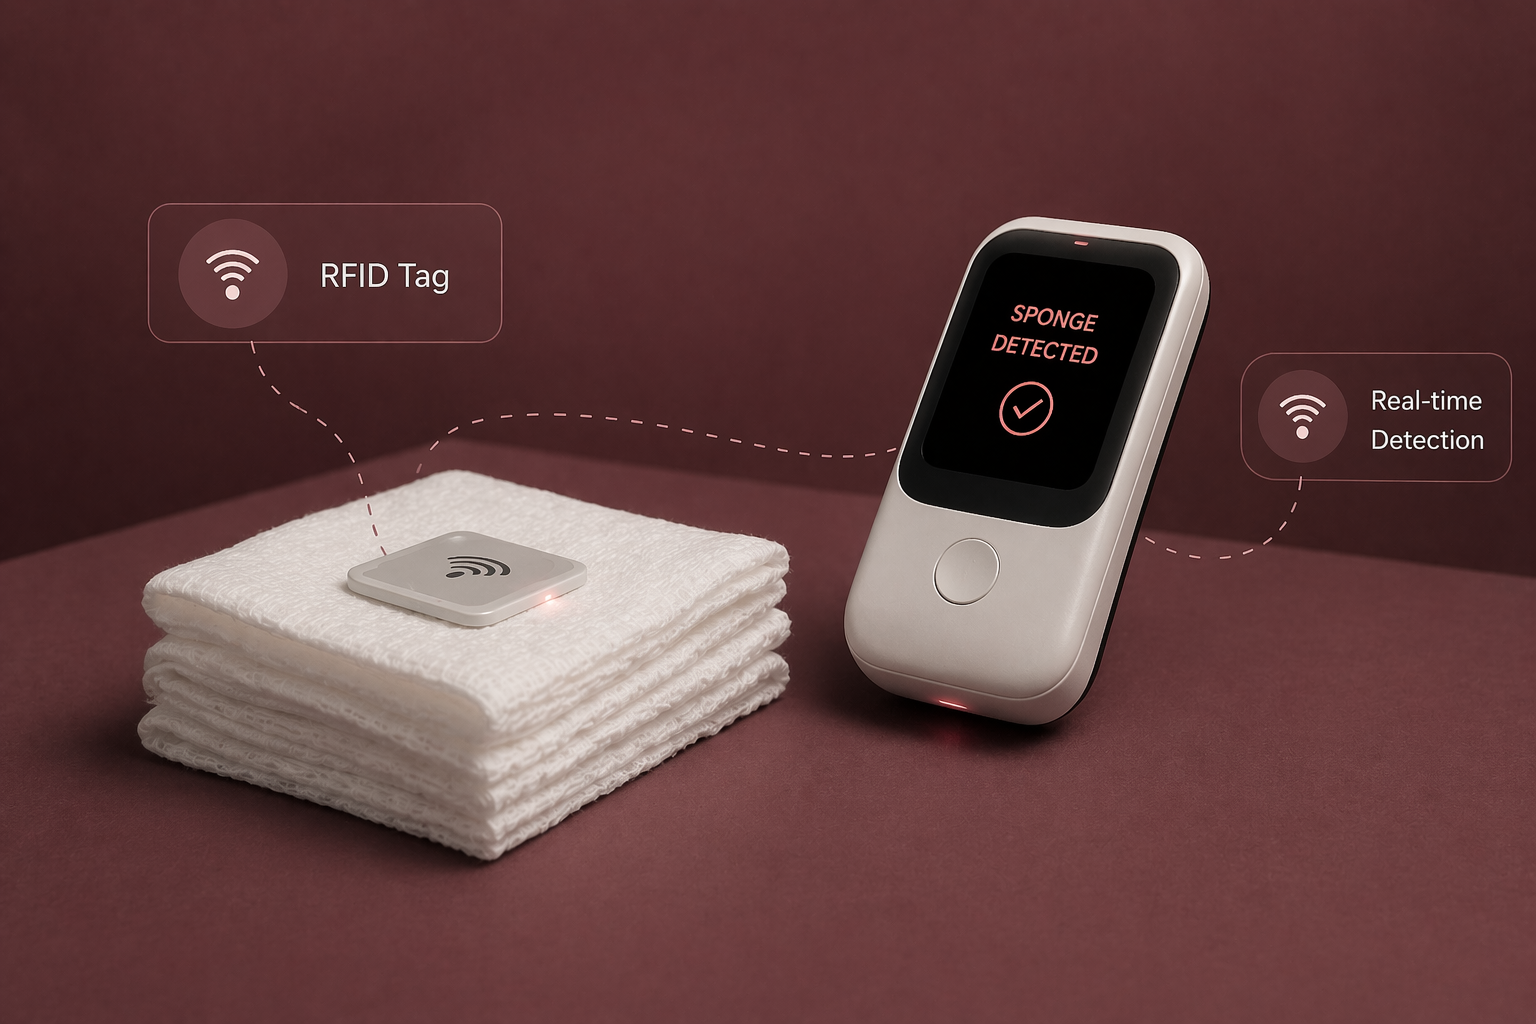
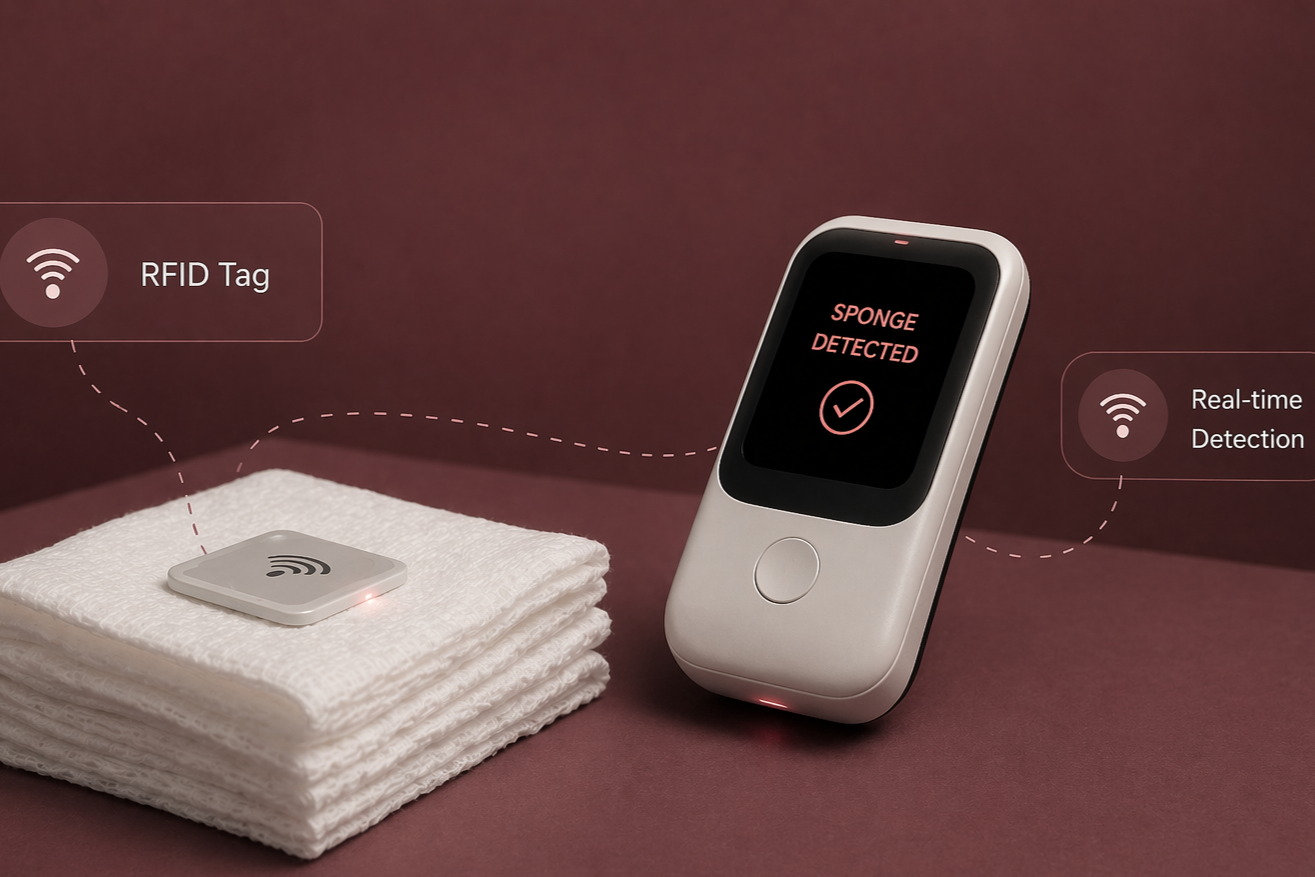
Updated till education section

diff --git a/src/components/Education.tsx b/src/components/Education.tsx
@@ -1,55 +1,131 @@
 'use client';
 
 import { motion } from 'framer-motion';
+import Image from 'next/image';
+import { Award, GraduationCap, BookOpen } from 'lucide-react';
 
-const education = [
-  {
-    degree: "M.Sc. Biomedical Engineering",
-    school: "Heidelberg University, Germany",
-    date: "Oct 2025 – Present"
-  },
-  {
-    degree: "B.Tech Biomedical Engineering",
-    school: "Lovely Professional University, India",
-    date: "Jun 2020 – Jun 2024",
-    detail: "Graduated with 91%"
-  }
-];
+export default function Education({ isActive = true }: { isActive?: boolean }) {
+  const itemVariants = {
+    hidden: { opacity: 0, y: 20, filter: 'blur(5px)' },
+    visible: { 
+      opacity: 1, 
+      y: 0, 
+      filter: 'blur(0px)',
+      transition: { duration: 0.8, ease: [0.22, 1, 0.36, 1] }
+    }
+  };
 
-export default function Education() {
   return (
-    <section className="section-wrapper bg-[var(--bg)]">
-      <div className="w-full max-w-[1100px] flex flex-col items-center gap-16 px-4">
-        {/* Row on Desktop */}
-        <div className="flex flex-col md:flex-row justify-center items-stretch gap-12 w-full">
-          {education.map((edu, i) => (
+    <section className="section-wrapper bg-[#1A0E10] h-screen overflow-hidden relative flex flex-col justify-center py-0">
+      
+      {/* Background Ambient Glow */}
+      <div className="absolute inset-0 pointer-events-none z-0">
+        <div className="absolute top-1/2 left-1/2 -translate-x-1/2 -translate-y-1/2 w-[700px] h-[700px] bg-[#7A4954]/5 blur-[180px]" />
+      </div>
+
+      <div className="about-container relative z-10 flex flex-col items-center">
+        
+        {/* Section Label - Compacted margin */}
+        <div className="w-full text-left mb-6 lg:mb-8">
+          <div className="about-side-label !mb-0">
             <motion.div
-              key={i}
-              initial={{ opacity: 0, y: 30 }}
-              whileInView={{ opacity: 1, y: 0 }}
-              transition={{ duration: 0.8, delay: i * 0.2 }}
-              viewport={{ once: true }}
-              className="card flex-1 flex flex-col items-center justify-center text-center p-12 min-w-[300px]"
+              initial={{ opacity: 0, x: -10 }}
+              animate={isActive ? { opacity: 0.6, x: 0 } : { opacity: 0, x: -10 }}
+              transition={{ duration: 0.8 }}
+              className="tracking-[0.4em]"
             >
-              <h3 className="text-2xl md:text-3xl font-display text-[var(--rose-light)] mb-2">{edu.degree}</h3>
-              <p className="text-lg text-[var(--cream)] mb-2">{edu.school}</p>
-              <p className="text-sm tracking-widest text-[var(--cream-muted)] mb-4">{edu.date}</p>
-              {edu.detail && <p className="text-[var(--rosewood)] font-bold text-sm">{edu.detail}</p>}
+              05 / EDUCATION / COURSE
             </motion.div>
-          ))}
+          </div>
         </div>
 
-        <motion.div
-          initial={{ opacity: 0, y: 20 }}
-          whileInView={{ opacity: 1, y: 0 }}
-          transition={{ delay: 0.6 }}
-          className="flex items-center justify-center gap-4 bg-[var(--surface)] border border-[var(--rosewood)] px-8 py-3 rounded-full"
-        >
-          <span className="text-[var(--rose-light)]">✦</span>
-          <span className="text-xs font-bold uppercase tracking-widest text-[var(--cream)]">
-            Biomedical Visualization — Coursera
-          </span>
-        </motion.div>
+        {/* COMPACT LUXURY 2x2 GRID */}
+        <div className="education-layout">
+          
+          {/* [BOX 1] Education Content */}
+          <motion.div 
+            initial="hidden"
+            animate={isActive ? "visible" : "hidden"}
+            variants={itemVariants}
+            className="education-card"
+          >
+            <div className="space-y-3">
+              <div>
+                <div className="education-tag">
+                  <GraduationCap size={12} /> Masters Degree
+                </div>
+                <h3 className="education-main-title !text-lg lg:!text-xl !mb-0.5">M.Sc. Biomedical Engineering</h3>
+                <p className="education-sub !text-[0.75rem]">Heidelberg University, Germany • 2025 – Present</p>
+              </div>
+              
+              <div className="w-8 h-[1px] bg-[#7A4954]/20" />
+              
+              <div>
+                <div className="education-tag">
+                  <BookOpen size={12} /> Undergraduate
+                </div>
+                <h3 className="education-main-title !text-lg lg:!text-xl !mb-0.5">B.Tech Biomedical Engineering</h3>
+                <p className="education-sub !text-[0.75rem]">Lovely Professional University • 2020 – 2024</p>
+                <div className="mt-1 text-[7px] font-black uppercase text-[#B07080] tracking-[0.2em] opacity-70">91% Graduation Score</div>
+              </div>
+            </div>
+          </motion.div>
+
+          {/* [BOX 2] Education Image */}
+          <motion.div 
+            initial="hidden"
+            animate={isActive ? "visible" : "hidden"}
+            variants={itemVariants}
+            transition={{ delay: 0.1 }}
+            className="education-image-box"
+          >
+            <Image 
+              src="/education.png"
+              alt="Education Journey"
+              fill
+              className="object-cover"
+              priority
+            />
+          </motion.div>
+
+          {/* [BOX 3] Course Image */}
+          <motion.div 
+            initial="hidden"
+            animate={isActive ? "visible" : "hidden"}
+            variants={itemVariants}
+            transition={{ delay: 0.2 }}
+            className="education-image-box"
+          >
+            <Image 
+              src="/course.png"
+              alt="Course Visualization"
+              fill
+              className="object-cover"
+              priority
+            />
+          </motion.div>
+
+          {/* [BOX 4] Course Content */}
+          <motion.div 
+            initial="hidden"
+            animate={isActive ? "visible" : "hidden"}
+            variants={itemVariants}
+            transition={{ delay: 0.3 }}
+            className="education-card !bg-gradient-to-br from-[#2C1A1E]/60 to-transparent"
+          >
+            <div className="space-y-3">
+              <div className="education-tag">
+                <Award size={12} /> Professional Certification
+              </div>
+              <h3 className="education-main-title !text-2xl lg:!text-3xl !mb-2">Biomedical Visualization</h3>
+              <div className="flex items-center justify-between pt-4 border-t border-[#7A4954]/20 mt-2">
+                <p className="text-[#C8BFA8] text-xs italic font-serif">Coursera Professional Academy</p>
+                <Award size={16} className="text-[#B07080] opacity-40" />
+              </div>
+            </div>
+          </motion.div>
+
+        </div>
       </div>
     </section>
   );

diff --git a/src/app/globals.css b/src/app/globals.css
@@ -763,8 +763,92 @@ body {
 .mini-card-plus {
   flex-shrink: 0;
   color: var(--rose-light);
-  opacity: 0.5;
-  z-index: 2;
+  opacity: 0.1;
+  pointer-events: none;
+}
+
+/* --- EDUCATION SECTION --- */
+.education-layout {
+  display: grid;
+  grid-template-columns: 1fr 1fr;
+  grid-template-rows: 1fr 1fr;
+  gap: 20px;
+  width: 100%;
+  max-width: 1000px;
+  margin: 0 auto;
+}
+
+.education-card, .education-image-box {
+  height: 250px; /* COMPACT LUXURY HEIGHT */
+  width: 100%;
+  border-radius: 28px;
+  overflow: hidden;
+  position: relative;
+  border: 1px solid rgba(122, 73, 84, 0.25);
+  box-shadow: 0 20px 50px rgba(0, 0, 0, 0.25);
+  display: flex;
+  flex-direction: column;
+  justify-content: center;
+  transition: all 0.5s var(--cinematic);
+}
+
+.education-card {
+  background: rgba(44, 26, 30, 0.4);
+  backdrop-filter: blur(20px);
+  padding: 32px;
+}
+
+.education-card:hover {
+  border-color: rgba(176, 112, 128, 0.4);
+  transform: translateY(-5px);
+}
+
+.education-image-box img {
+  width: 100%;
+  height: 100%;
+  object-fit: cover;
+  transition: transform 2s var(--cinematic);
+}
+
+.education-image-box:hover img {
+  transform: scale(1.08);
+}
+
+.education-tag {
+  font-size: 10px;
+  font-weight: 800;
+  text-transform: uppercase;
+  letter-spacing: 0.2em;
+  color: var(--rose-light);
+  margin-bottom: 8px;
+  display: flex;
+  align-items: center;
+  gap: 8px;
+}
+
+.education-main-title {
+  font-family: 'Cormorant Garamond', serif;
+  font-size: 1.8rem;
+  color: var(--cream);
+  line-height: 1.2;
+  margin-bottom: 8px;
+}
+
+.education-sub {
+  font-size: 0.9rem;
+  color: var(--cream-muted);
+  opacity: 0.8;
+}
+
+@media (max-width: 1024px) {
+  .education-layout {
+    grid-template-columns: 1fr;
+    gap: 20px;
+  }
+  
+  .education-card {
+    padding: 30px;
+  }
 }
 
 .active .mini-card-plus {

diff --git a/src/components/Navbar.tsx b/src/components/Navbar.tsx
@@ -10,6 +10,7 @@ export default function Navbar() {
     { name: "Skills", id: "skills" },
     { name: "Experience", id: "experience" },
     { name: "Projects", id: "project" },
+    { name: "Education", id: "education" },
   ];
 
   const handleNav = (id: string) => {